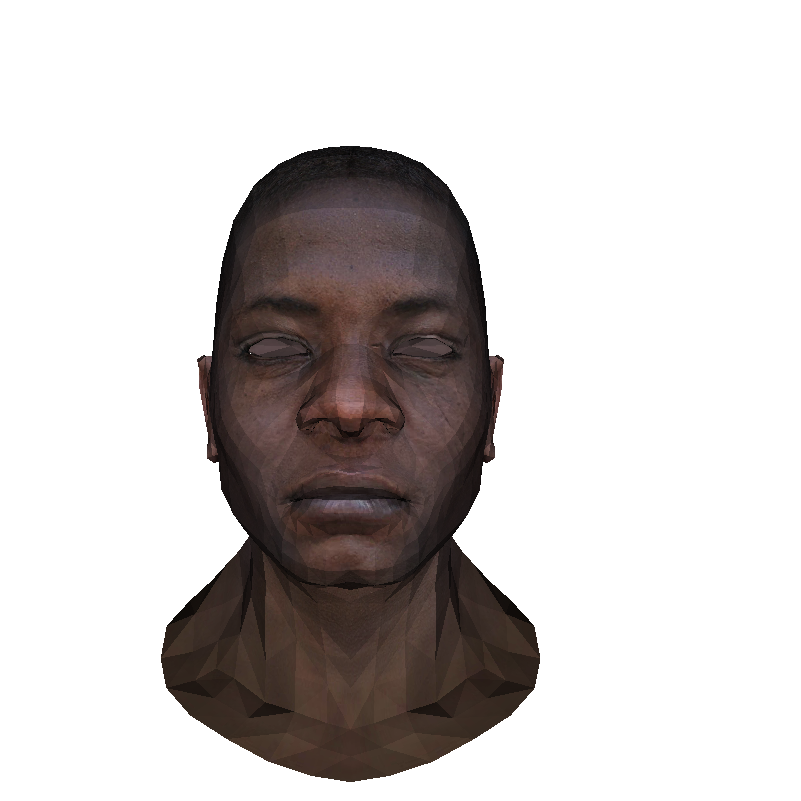
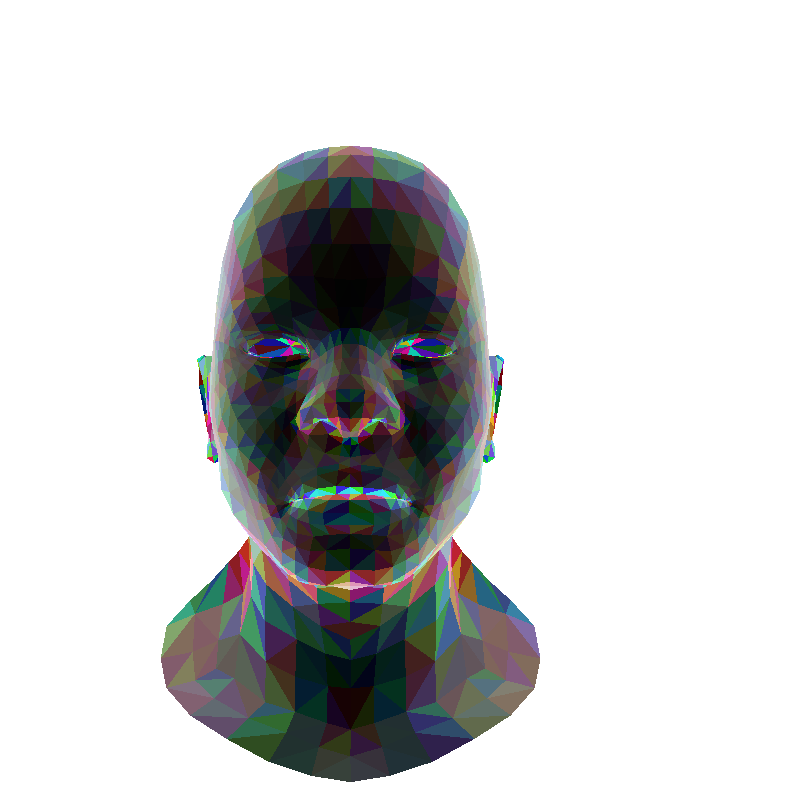
Not exactly what I thought would happen

Changed region(s): [[0.1873, 0.1561, 0.6866, 0.9988]]

diff --git a/src/main.rs b/src/main.rs
@@ -41,6 +41,7 @@ fn main() {
         let mut screen_coords: [Vertex3<f32>; 3] = [Vertex3::new(); 3];
         let mut world_coords: [Vertex3<f32>; 3] = [Vertex3::new(); 3];
         let mut normal_coords: [Vertex3<f32>; 3] = [Vertex3::new(); 3];
+        let mut normals: [f32; 3] = [0.0; 3];
         let mut texture_coords: [Vertex2<f32>; 3] = [Vertex2::<f32> { x: 0.0, y: 0.0 }; 3];
         for i in 0..3 {
             let vertex_index = face.get_vertex(i) as usize;
@@ -49,6 +50,7 @@ fn main() {
             world_coords[i] = *model.verts.get(vertex_index).unwrap();
             texture_coords[i] = *model.textures.get(texture_index).unwrap();
             normal_coords[i] = *model.normals.get(normal_index).unwrap();
+            normals[i] = normal_coords[i].normalize() * light_dir;
             screen_coords[i] = (viewport.clone() * projection.clone() * world_coords[i].to_matrix()).to_vector();
         }
         let mut n = Vertex3::cross((world_coords[2] - world_coords[0]),
@@ -58,10 +60,9 @@ fn main() {
         if intensity > 0.0 {
             renderer::triangle(&screen_coords,
                                &texture_coords,
-                               &normal_coords,
+                               &normals,
                                &model.texture_image,
                                &mut zbuffer,
-                               intensity,
                                &mut imgbuf)
         }
     }

diff --git a/src/renderer.rs b/src/renderer.rs
@@ -25,10 +25,9 @@ pub fn viewport(x: u32, y: u32, h: u32, w: u32, depth: u32) -> Matrix {
 
 pub fn triangle(verts: &[Vertex3<f32>; 3],
                 textures: &[Vertex2<f32>; 3],
-                normals: &[Vertex3<f32>; 3],
+                intensity: &[f32; 3],
                 texture_map: &DynamicImage,
                 zbuffer: &mut [f32],
-                intensity: f32,
                 imgbuf: &mut RgbaImage) {
     let height = (imgbuf.height() - 1) as f32;
     let width = (imgbuf.width() - 1) as f32;
@@ -77,9 +76,9 @@ pub fn triangle(verts: &[Vertex3<f32>; 3],
                 let texture_x = p_uv.x * texture_buf_height as f32;
                 let texture_y = p_uv.y * texture_buf_width as f32;
                 let texture_pixel = texture_buf.get_pixel(texture_x as u32, texture_y as u32);
-                let pixel = image::Rgba([(texture_pixel[0] as f32 * intensity) as u8,
-                                         (texture_pixel[1] as f32 * intensity) as u8, 
-                                         (texture_pixel[2] as f32 * intensity) as u8, 255u8]);
+                let pixel = image::Rgba([(255.0 * intensity[0]) as u8,
+                                         (255.0 * intensity[1]) as u8, 
+                                         (255.0 * intensity[2]) as u8, 255u8]);
                 zbuffer[zbuff_idx - 1] = p.z;
                 imgbuf.put_pixel(p.x as u32, p.y as u32, pixel);
             }
